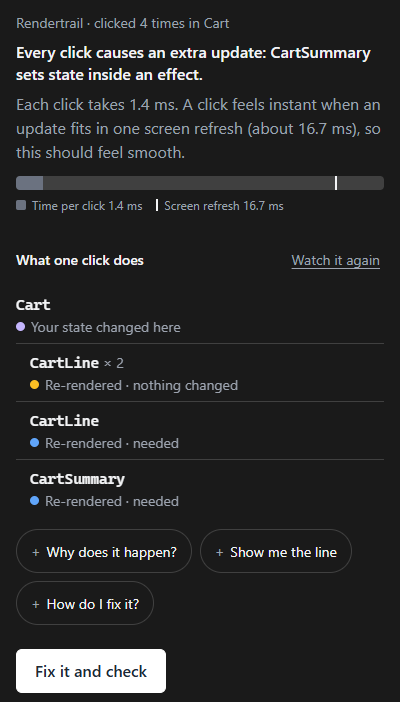
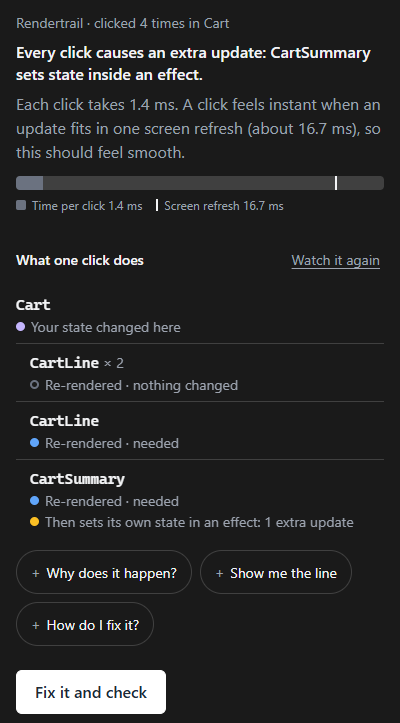
fix(card): show rule 2's extra update in the tree; wording from review
- when rule 2 is the main problem, its component's row stays in the tree and
  the card marks it 'Then sets its own state in an effect: 1 extra update';
  'nothing changed' rows get the neutral dot (cart-summary blamed CartLine)
- no-findings text starts 'No main problem found' (owner decision)
- overlap note only names listed findings, by number, and is appended
- step subline no longer repeats 'smooth'
- screenshot clean-up regex matches the digits

diff --git a/test/analyzer-fixtures.test.ts b/test/analyzer-fixtures.test.ts
@@ -95,7 +95,9 @@ describe('cart-summary (rule 2 by clicks, with a look-alike in .then)', () => {
     expect(f).toMatchObject({ extraUpdatesPerStep: 1, stepsAffected: 4 });
   });
 
-  it('stays right when a run records an extra mount follow-up (seen on React 18): only the indexes move', async () => {
+  // On React 18 one run has recorded one more update than EXPECTED.md lists (cause not investigated).
+  // Here an extra update is inserted before the clicks, which shifts every later index by one.
+  it('stays right when run 1 has one more update before the clicks: only the indexes move', async () => {
     const saved = savedFixtureTrace('cart-summary', 'Cart.tsx');
     const first = saved.traces[0]!;
     const commits = [...first.commits.slice(0, 2), first.commits[1]!, ...first.commits.slice(2)].map((c, index) => ({ ...c, index }));
@@ -104,6 +106,16 @@ describe('cart-summary (rule 2 by clicks, with a look-alike in .then)', () => {
     const a = await analyze({ summary, traces: [{ ...first, commits }], files: fixtureFiles('cart-summary') });
     expect(a.allFindings.map((f) => [f.id, f.location?.line, f.stepsAffected])).toEqual([['state-in-effect:CartSummary:setTotal', 28, 4]]);
     expect(a.allFindings[0]!.commits).toEqual([5, 8, 11, 14]);
+  });
+
+  it("keeps CartSummary's row in the tree: the card marks the extra update there", async () => {
+    const { a } = await analyzed('cart-summary', 'Cart.tsx');
+    expect(a.keystroke.tree.map((r) => [r.name, r.label])).toEqual([
+      ['Cart', 'state-origin'],
+      ['CartLine', 'nothing-changed'],
+      ['CartLine', 'needed'],
+      ['CartSummary', 'needed'],
+    ]);
   });
 
   it('groups both follow-ups (setTotal, then setQuote a microtask later) into the click that caused them', async () => {
@@ -141,7 +153,7 @@ describe('pricing-toggle (rules 1 and 2 together)', () => {
     const { a, text } = await analyzed('pricing-toggle', 'PricingPage.tsx');
     const r2 = a.findings[1]!;
     expect(r2.location).toMatchObject({ file: 'PricingPage.tsx', line: 8 });
-    expect(r2.texts.summary).toContain("That extra update also re-renders FeatureMatrix for nothing, so part of this time is the same waste: don't add the two up.");
+    expect(r2.texts.summary.endsWith("React Compiler doesn't fix this one. Its extra update also re-renders FeatureMatrix (finding 1) for nothing, so part of its time is the same waste: don't add the two up.")).toBe(true);
     expect(text).toContain('`const discount = billing === \'yearly\' ? 0.2 : 0;`');
     expect(a.keystroke.wastedMsPerStep).toBeLessThanOrEqual(a.keystroke.msPerStep);
   });
@@ -158,7 +170,7 @@ describe('theme-storefront (the decoy: nothing to fix)', () => {
     const { a, text } = await analyzed('theme-storefront', 'Storefront.tsx');
     expect(a.allFindings).toEqual([]);
     expect(a.keystroke.headline).toMatch(/^Nothing to fix: each click takes [\d.]+ ms\.$/);
-    expect(text).toContain('No problem passed the thresholds');
+    expect(text).toContain('No main problem found: ');
     expect(a.keystroke.tree.map((r) => [r.name, r.label])).toEqual([
       ['Storefront', 'state-origin'],
       ['ProductGrid', 'needed'],
@@ -191,14 +203,15 @@ describe('todo-toggle (rule 1, function prop, 100 rows)', () => {
     expect(f.location).toMatchObject({ file: 'TodoApp.tsx', line: 29, snippet: 'onToggle={handleToggle}' });
     expect(f.texts.line).toContain('`handleToggle` is declared at TodoApp.tsx:9: `function handleToggle(id: number) { … }`.');
     expect(f.texts.fix).toContain('`const handleToggle = useCallback((id: number) => { … }, []);`');
-    expect(f.texts.fix).toContain('The dependency list can stay empty');
+    // The reason EXPECTED.md gives: the setter uses the functional updater.
+    expect(f.texts.fix).toContain('The dependency list can stay empty: it only calls `setTodos`, with an updater (`setTodos((prev) => …)`), so it never reads the current state');
   });
 
   it('words a mixed interaction without "keystroke" or "letter"', async () => {
     const { a, text } = await analyzed('todo-toggle', 'TodoApp.tsx');
     expect(a.keystroke.unit).toBe('step');
     expect(a.keystroke.caption).toBe('typed “milk” and clicked 2 times in TodoApp');
-    expect(a.keystroke.subline).toMatch(/^Each step takes [\d.]+ ms\. It feels smooth when an update fits in one screen refresh/);
+    expect(a.keystroke.subline).toMatch(/^Each step takes [\d.]+ ms\. A step feels instant when an update fits in one screen refresh .*, so this should feel smooth\.$/);
     // The findings part; the recording note below the run id quotes the raw steps ("100 ms between letters").
     expect(`${a.keystroke.headline} ${a.keystroke.subline} ${text.slice(0, text.indexOf('Run id:'))}`).not.toMatch(/keystroke|letter/);
   });

diff --git a/src/analyzer/index.ts b/src/analyzer/index.ts
@@ -79,16 +79,20 @@ export function rank(candidates: readonly Candidate[]): Finding[] {
 }
 
 /**
- * A rule 2 finding whose extra updates also re-render a reported rule 1 component for nothing: the
- * two costs overlap (pricing-toggle), so its summary says so and nobody adds them up.
+ * A rule 2 finding whose extra updates also re-render a listed rule 1 component for nothing: the
+ * two costs overlap (pricing-toggle), so its summary says so and nobody adds them up. Only findings
+ * that are listed (the top ANALYZER.maxFindings) are named, by their number in the list.
  */
-function noteOverlaps(findings: Finding[]): Finding[] {
+export function noteOverlaps(findings: Finding[]): Finding[] {
   return findings.map((f) => {
     if (f.rule !== 'state-in-effect') return f;
-    const overlapping = findings.filter((o) => o.rule === 'unstable-prop' && o.commits.some((c) => f.commits.includes(c))).map((o) => o.component);
+    const overlapping = findings.filter(
+      (o) => o.rule === 'unstable-prop' && o.rank <= ANALYZER.maxFindings && o.commits.some((c) => f.commits.includes(c)),
+    );
     if (overlapping.length === 0) return f;
-    const note = ` That extra update also re-renders ${overlapping.join(', ')} for nothing, so part of this time is the same waste: don't add the two up.`;
-    return { ...f, texts: { ...f.texts, summary: f.texts.summary.replace(/\. Fix: /, `.${note} Fix: `) } };
+    const names = overlapping.map((o) => `${o.component} (finding ${o.rank})`).join(', ');
+    const note = ` Its extra update also re-renders ${names} for nothing, so part of its time is the same waste: don't add the two up.`;
+    return { ...f, texts: { ...f.texts, summary: `${f.texts.summary}${note}` } };
   });
 }
 
@@ -155,7 +159,7 @@ export async function analyze(input: AnalyzeInput): Promise<Analysis> {
   const topWaste = findings.find((f) => f.rule === 'unstable-prop');
   const shares = topWaste ? steps.map((s) => (s.renderMs > 0 ? Math.min(1, wasteInStep(trace, s, topWaste.component, timing) / s.renderMs) : 0)) : [];
   const wasted = round(msPerStep * (shares.length ? exactMedian(shares) : 0));
-  const smooth = unit.unit === 'letter' ? 'Typing feels smooth' : unit.unit === 'click' ? 'A click feels instant' : 'It feels smooth';
+  const smooth = unit.unit === 'letter' ? 'Typing feels smooth' : unit.unit === 'click' ? 'A click feels instant' : 'A step feels instant';
 
   const keystroke: KeystrokeView = {
     unit: unit.unit,
@@ -174,7 +178,7 @@ export async function analyze(input: AnalyzeInput): Promise<Analysis> {
         ? 'Try an interaction that changes what the component shows, such as typing into an input.'
         : `${unit.each} takes ${msText(msPerStep)}. ${smooth} when an update fits in one screen refresh (about ${ANALYZER.frameBudgetMs} ms), ` +
           `so this ${overBudget ? 'feels laggy' : 'should feel smooth'}.`,
-    tree: typical ? buildTree(trace, typical.commits[0]!, timing) : [],
+    tree: typical ? buildTree(trace, typical.commits[0]!, timing, findings[0]?.rule === 'state-in-effect' ? findings[0].component : undefined) : [],
   };
   return { steps, allFindings, findings, keystroke };
 }

diff --git a/ui/src/parts.tsx b/ui/src/parts.tsx
@@ -150,6 +150,12 @@ export function Tree({ k, top }: { k: KeystrokeView; top: Finding | undefined })
   if (k.tree.length === 0) return null;
   const { treeTitle } = stepWords(k);
   const minDepth = Math.min(...k.tree.map((r) => r.depth));
+  // When the main problem is state set in an effect, the tree shows the input update; the extra
+  // update comes right after it, on the component the headline names. Mark that row, and don't
+  // paint cheap "nothing changed" rows as the problem (cart-summary: CartLine isn't it).
+  const extra = top?.rule === 'state-in-effect' ? top : undefined;
+  const extraRow = extra ? k.tree.findIndex((r) => r.name === extra.component) : -1;
+  const extraCount = extra ? Math.max(1, Math.round(extra.extraUpdatesPerStep ?? 1)) : 0;
   return (
     <section className="tree" aria-label={treeTitle}>
       <div className="section-head">
@@ -175,9 +181,15 @@ export function Tree({ k, top }: { k: KeystrokeView; top: Finding | undefined })
               </span>
               {treeRowMs(row, k, top) !== null && <span className="row-ms">{msText(treeRowMs(row, k, top)!)}</span>}
               <span className="row-label">
-                <span className={`dot ${DOT[row.label]}`} aria-hidden="true" />
+                <span className={`dot ${extra && row.label === 'nothing-changed' ? 'dot-muted' : DOT[row.label]}`} aria-hidden="true" />
                 {TREE_LABEL_TEXT[row.label]}
               </span>
+              {i === extraRow && (
+                <span className="row-label row-extra" data-testid="extra-update">
+                  <span className="dot dot-warning" aria-hidden="true" />
+                  Then sets its own state in an effect: {extraCount === 1 ? '1 extra update' : `${extraCount} extra updates`}
+                </span>
+              )}
             </li>
           );
         })}

diff --git a/ui/src/card.test.tsx b/ui/src/card.test.tsx
@@ -506,3 +506,27 @@ describe('the other golden fixtures (ui/dev/results/fixture-*.json)', () => {
     }
   });
 });
+
+describe('cart-summary: the tree points at the rule 2 component, not at CartLine', () => {
+  it('marks the extra update on CartSummary and mutes the cheap "nothing changed" rows', () => {
+    render(<Card state={stateOf('fixture-cart-summary')} host={host()} />);
+    const rows = within(screen.getByRole('region', { name: 'What one click does' })).getAllByRole('listitem');
+    const byName = (name: string) => rows.filter((r) => r.querySelector('code')?.textContent === name);
+    const summary = byName('CartSummary')[0]!;
+    expect(within(summary).getByTestId('extra-update').textContent).toBe('Then sets its own state in an effect: 1 extra update');
+    for (const line of byName('CartLine')) expect(line.querySelector('.dot-warning')).toBeNull();
+    expect(screen.getAllByTestId('extra-update')).toHaveLength(1);
+  });
+
+  it('leaves trees whose top finding is rule 1 as they were (laggy-search, pricing-toggle)', () => {
+    for (const name of ['unfixed', 'fixture-pricing-toggle']) {
+      const { container } = render(<Card state={stateOf(name)} host={host()} />);
+      expect(container.querySelector('[data-testid="extra-update"]'), name).toBeNull();
+      expect(container.querySelector('[data-label="memo-broken"] .dot-warning'), name).not.toBeNull();
+      cleanup();
+    }
+    render(<Card state={stateOf('unfixed')} host={host()} />);
+    const header = screen.getAllByRole('listitem').find((r) => r.querySelector('code')?.textContent === 'Header')!;
+    expect(header.querySelector('.dot-warning')).not.toBeNull();
+  });
+});

diff --git a/src/analyzer/tree.ts b/src/analyzer/tree.ts
@@ -28,7 +28,11 @@ function labelOf(r: RecordedCommit['rendered'][number]): TreeLabel {
   return 'nothing-changed';
 }
 
-export function buildTree(trace: RecordedTrace, commitIndex: number, timing: Timing): TreeRow[] {
+/**
+ * `focus`: the component the top finding is about when it's rule 2. Its row is kept first after the
+ * origin, so the card can show the extra update it causes even in a tree cut to 5 rows.
+ */
+export function buildTree(trace: RecordedTrace, commitIndex: number, timing: Timing, focus?: string): TreeRow[] {
   const commit = trace.commits[commitIndex];
   const mount = trace.commits[0];
   if (!commit) return [];
@@ -66,7 +70,7 @@ export function buildTree(trace: RecordedTrace, commitIndex: number, timing: Tim
       below,
       ms: timing.componentMs(commitIndex, i),
       order: i,
-      priority: passThrough ? PASS_THROUGH_PRIORITY : PRIORITY[label],
+      priority: r.name === focus ? 0.5 : passThrough ? PASS_THROUGH_PRIORITY : PRIORITY[label],
     });
   });
 

diff --git a/src/analyzer/text.ts b/src/analyzer/text.ts
@@ -63,7 +63,7 @@ export function formatAnalysis(input: TextInput): string {
     const shown = findings.slice(0, ANALYZER.maxFindings);
     if (shown.length === 0) {
       lines.push(
-        `No problem passed the thresholds: no memo component re-rendered with only unchanged props for ${ANALYZER.unstablePropMinMsPerStep} ms or more per ${k.unit}, ` +
+        `No main problem found: no memo component re-rendered with only unchanged props for ${ANALYZER.unstablePropMinMsPerStep} ms or more per ${k.unit}, ` +
           `and no component set state inside an effect on at least half of the ${k.unit}s.`,
         `Raw cost per ${k.unit} (median of ${plural(k.steps, k.unit)}): ${msText(k.msPerStep)}, ${rounded(k.rendersPerStep)} component renders.`,
       );
